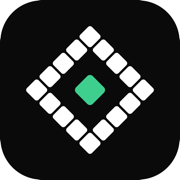
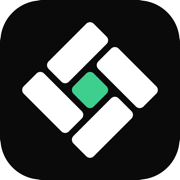
Pavé cut: pack the Tessera solid — mass that reads at header size
Nate's small-size report: the compact ring read as a hollow dotted
outline in the nav. Following his packed-mosaic reference, the mark is
now a pavé — a diamond of packed tesserae (lozenges + squares, exact C4
pinwheel packing) set around the one stone. Solid mass instead of
outline; the silhouette survives 16px.

- components/Logo.tsx: full mark = the 5x5 pave quilt (8 dominoes + 8
  singles + stone, 17 pieces); compact cut (<40px) = the 5-piece
  pinwheel (4 lozenges + stone) that stays crisp at nav/favicon sizes.
  Same rotated lattice + color contract as before (currentColor tiles,
  var(--accent) stone).
- components/protocol-marks.tsx: MCP mark = the 5-piece cut, pure
  currentColor.
- app/icon.svg + icon.png + apple-icon.png: favicon redrawn on the
  5-piece cut - much stronger at 16-32px.
- public/design-system/assets/yeetful-mark{,-black,-white}.svg: masters
  updated to the full quilt.

Gates: tsc clean, build green, test:api 1339/1 (known-red
router-select). Live-verified on :3491 prod: nav renders 5 pieces,
stone #3ECF8E, wordmark "pantessa".

Changed region(s): [[0.1111, 0.1111, 0.8889, 0.8889], [0.3889, 0.3889, 0.6111, 0.6111]]

diff --git a/components/Logo.tsx b/components/Logo.tsx
@@ -1,10 +1,10 @@
 // components/Logo.tsx
-// Pantessa — "The Tessera" mark + wordmark.
-// A mosaic diamond condenses toward its center and parts around a void; the
-// one tessera floats there — pan (all) + tessera (tile): every dapp a tile,
-// together one picture. Tiles inherit `currentColor` so the mark flips with
-// the theme; the stone rides the site accent (emerald on dark, deep emerald
-// on light) unless a `stone` color is passed.
+// Pantessa — "The Tessera" mark + wordmark, pavé cut.
+// A diamond of packed tesserae — mixed lozenges and squares set around one
+// stone — pan (all) + tessera (tile): every dapp a tile, together one
+// picture. Tiles inherit `currentColor` so the mark flips with the theme;
+// the stone rides the site accent (emerald on dark, deep emerald on light)
+// unless a `stone` color is passed.
 
 import * as React from "react";
 
@@ -12,38 +12,65 @@ type MarkProps = {
   size?: number;
   className?: string;
   title?: string;
-  /** 'full' = both courses (40 tesserae) + stone; 'compact' = inner course +
-   *  stone, which stays crisp below ~40px. 'auto' picks by size. */
+  /** 'full' = the 5×5 pavé quilt (17 pieces); 'compact' = the 5-piece
+   *  pinwheel cut, which stays crisp below ~40px. 'auto' picks by size. */
   detail?: "auto" | "full" | "compact";
   /** Stone (the one tessera) fill. Defaults to the site accent. */
   stone?: string;
 };
 
-// Rotated tile lattice: screen = ((i-j)·p·S, (i+j)·p·S), tiles at 45°.
-// The 3×3 center block is the void; ring m=2 is the inner course (16 tiles),
-// ring m=3 the outer (24 tiles). Same numbers as the brand masters.
+// Rotated tile lattice: cell (i,j) → screen ((i−j)·u·S, (i+j)·u·S); pieces
+// are drawn at 45°, so a Chebyshev-square region of cells reads as a screen
+// diamond. A "domino" spans two adjacent cells → a 1×2 lozenge. Packings are
+// exact C4 pinwheels (rotate 90° in lattice = (i,j) → (−j,i)).
 const S = Math.SQRT1_2;
-const PITCH = 24;
-const INNER_TILE = 21;
-const OUTER_TILE = 13;
-const STONE = 30;
+const U = 30; // lattice cell
+const G = 5.5; // grout
+const RX = 4.5;
 
-function courses(full: boolean) {
-  const cells: Array<{ x: number; y: number; a: number; rx: number }> = [];
-  const max = full ? 3 : 2;
-  for (let i = -max; i <= max; i++) {
-    for (let j = -max; j <= max; j++) {
-      const m = Math.max(Math.abs(i), Math.abs(j));
-      if (m < 2) continue;
-      cells.push({
-        x: 100 + (i - j) * PITCH * S,
-        y: 100 + (i + j) * PITCH * S,
-        a: m === 2 ? INNER_TILE : OUTER_TILE,
-        rx: m === 2 ? 3.5 : 2.8,
-      });
-    }
-  }
-  return cells;
+type Cell = [number, number];
+type Piece = { ci: number; cj: number; li: number; lj: number };
+
+const rot90 = ([i, j]: Cell): Cell => [-j, i];
+function orbit4(d: [Cell, Cell]): [Cell, Cell][] {
+  const out: [Cell, Cell][] = [d];
+  for (let k = 0; k < 3; k++) out.push([rot90(out[k][0]), rot90(out[k][1])]);
+  return out;
+}
+const dominoPiece = ([a, b]: [Cell, Cell]): Piece => ({
+  ci: (a[0] + b[0]) / 2,
+  cj: (a[1] + b[1]) / 2,
+  li: Math.abs(a[0] - b[0]) + 1,
+  lj: Math.abs(a[1] - b[1]) + 1,
+});
+const singlePiece = ([i, j]: Cell): Piece => ({ ci: i, cj: j, li: 1, lj: 1 });
+
+// Full quilt: 8 dominoes + 8 singles on the 5×5 diamond.
+const QUILT: Piece[] = [
+  ...orbit4([[1, 0], [2, 0]] as [Cell, Cell]).map(dominoPiece),
+  ...orbit4([[1, 1], [1, 2]] as [Cell, Cell]).map(dominoPiece),
+  ...([[2, 1], [-1, 2], [-2, -1], [1, -2], [2, 2], [-2, 2], [-2, -2], [2, -2]] as Cell[]).map(singlePiece),
+];
+// Compact cut: 4 dominoes pinwheeling on the 3×3 diamond.
+const CHUNK: Piece[] = orbit4([[1, 0], [1, 1]] as [Cell, Cell]).map(dominoPiece);
+
+function pieceRect(p: Piece, fill: string, key: number) {
+  const x = 100 + (p.ci - p.cj) * U * S;
+  const y = 100 + (p.ci + p.cj) * U * S;
+  const w = p.li * U - G;
+  const h = p.lj * U - G;
+  return (
+    <rect
+      key={key}
+      x={-w / 2}
+      y={-h / 2}
+      width={w}
+      height={h}
+      rx={RX}
+      fill={fill}
+      transform={`translate(${x.toFixed(2)} ${y.toFixed(2)}) rotate(45)`}
+    />
+  );
 }
 
 export function YeetfulMark({
@@ -54,8 +81,9 @@ export function YeetfulMark({
   stone = "var(--accent, #3ECF8E)",
 }: MarkProps) {
   const full = detail === "full" || (detail === "auto" && size >= 40);
-  // Full-mark tips reach ~±111 from center; the compact course ~±83.
-  const r = full ? 118 : 92;
+  const pieces = full ? QUILT : CHUNK;
+  // Quilt extent ≈ ±103 from center; the compact cut ≈ ±62.
+  const r = full ? 112 : 66;
   return (
     <svg
       width={size}
@@ -66,27 +94,8 @@ export function YeetfulMark({
       role="img"
       aria-label={title}
     >
-      {courses(full).map((c, k) => (
-        <rect
-          key={k}
-          x={-c.a / 2}
-          y={-c.a / 2}
-          width={c.a}
-          height={c.a}
-          rx={c.rx}
-          fill="currentColor"
-          transform={`translate(${c.x.toFixed(2)} ${c.y.toFixed(2)}) rotate(45)`}
-        />
-      ))}
-      <rect
-        x={-STONE / 2}
-        y={-STONE / 2}
-        width={STONE}
-        height={STONE}
-        rx={5}
-        fill={stone}
-        transform="translate(100 100) rotate(45)"
-      />
+      {pieces.map((p, k) => pieceRect(p, "currentColor", k))}
+      {pieceRect(singlePiece([0, 0]), stone, -1)}
     </svg>
   );
 }

diff --git a/components/protocol-marks.tsx b/components/protocol-marks.tsx
@@ -128,35 +128,43 @@ export function MorphoMark({ size = 22 }: { size?: number }) {
 }
 
 export function YeetfulMark({ size = 22 }: { size?: number }) {
-  // Pantessa's "Tessera" mark, compact cut — the inner course of the mosaic
-  // (16 tiles) parting around the one stone (same lattice as
-  // components/Logo.tsx and public/design-system/assets/yeetful-mark.svg).
-  // Used for the first-party `yeetful-tool-*` internal MCPs so they carry the
-  // brand mark. Pure `currentColor` art — stone included — so it inverts with
-  // the tile like every other mark here.
+  // Pantessa's "Tessera" mark, compact pavé cut — four lozenge tesserae
+  // pinwheeling around the one stone (same lattice as components/Logo.tsx and
+  // public/design-system/assets/yeetful-mark.svg). Used for the first-party
+  // `yeetful-tool-*` internal MCPs so they carry the brand mark. Pure
+  // `currentColor` art — stone included — so it inverts with the tile like
+  // every other mark here.
   const S = Math.SQRT1_2
-  const p = 24
-  const cells: Array<[number, number]> = []
-  for (let i = -2; i <= 2; i++)
-    for (let j = -2; j <= 2; j++) {
-      if (Math.max(Math.abs(i), Math.abs(j)) < 2) continue
-      cells.push([100 + (i - j) * p * S, 100 + (i + j) * p * S])
-    }
+  const U = 30
+  const G = 5.5
+  // C4 pinwheel of 1x2 lozenges: orbit of the domino spanning cells (1,0)-(1,1).
+  const pieces: Array<[number, number, number, number]> = [
+    [1, 0.5, 1, 2],
+    [-0.5, 1, 2, 1],
+    [-1, -0.5, 1, 2],
+    [0.5, -1, 2, 1],
+    [0, 0, 1, 1],
+  ]
   return (
-    <svg viewBox="8 8 184 184" width={size} height={size} fill="none" aria-hidden style={{ display: 'block' }}>
-      {cells.map(([x, y], k) => (
-        <rect
-          key={k}
-          x={-10.5}
-          y={-10.5}
-          width={21}
-          height={21}
-          rx={3.5}
-          fill="currentColor"
-          transform={`translate(${x.toFixed(2)} ${y.toFixed(2)}) rotate(45)`}
-        />
-      ))}
-      <rect x={-15} y={-15} width={30} height={30} rx={5} fill="currentColor" transform="translate(100 100) rotate(45)" />
+    <svg viewBox="34 34 132 132" width={size} height={size} fill="none" aria-hidden style={{ display: 'block' }}>
+      {pieces.map(([ci, cj, li, lj], k) => {
+        const x = 100 + (ci - cj) * U * S
+        const y = 100 + (ci + cj) * U * S
+        const w = li * U - G
+        const h = lj * U - G
+        return (
+          <rect
+            key={k}
+            x={-w / 2}
+            y={-h / 2}
+            width={w}
+            height={h}
+            rx={4.5}
+            fill="currentColor"
+            transform={`translate(${x.toFixed(2)} ${y.toFixed(2)}) rotate(45)`}
+          />
+        )
+      })}
     </svg>
   )
 }
